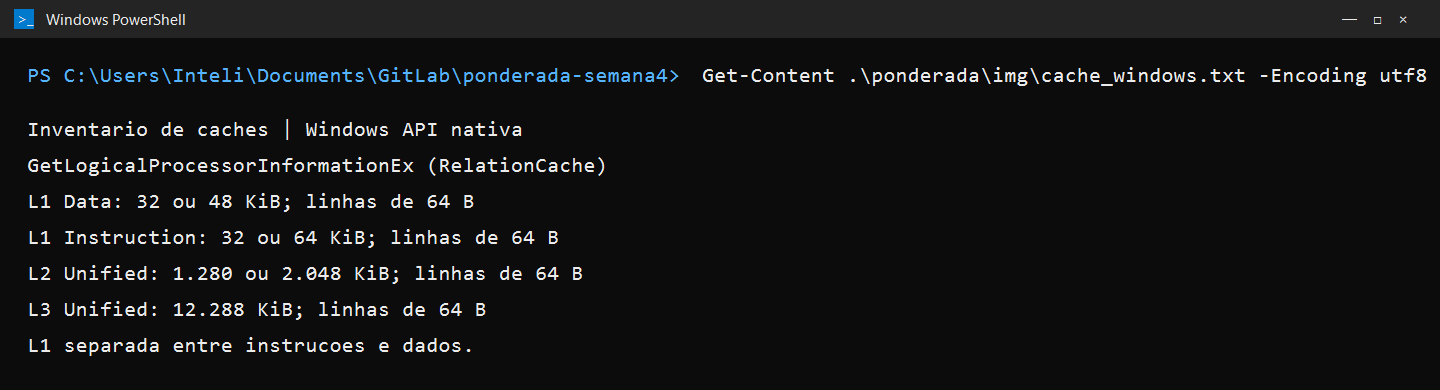
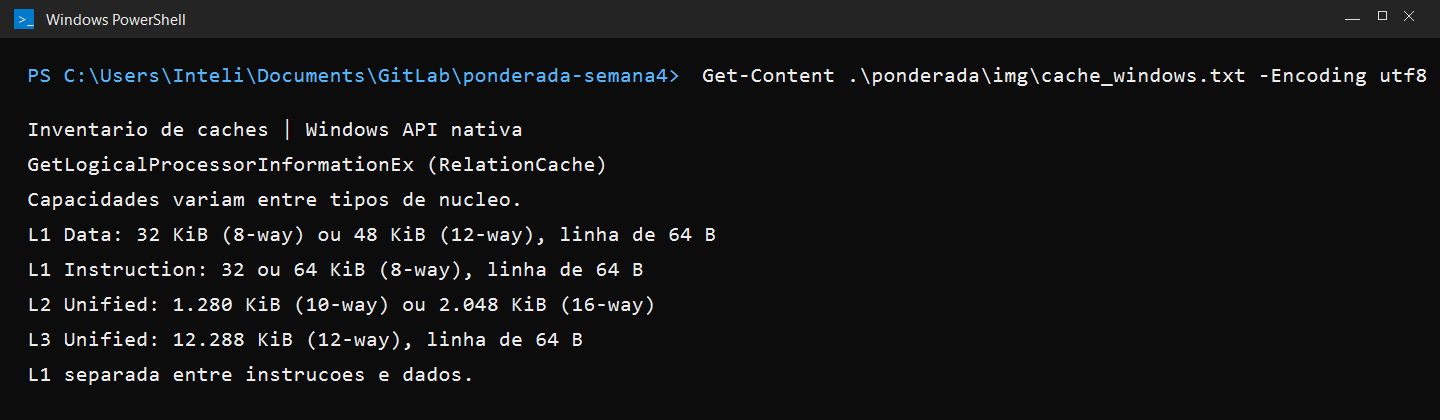
docs: Atualiza documentação e corrige formatação em arquivos README.md e ponderada-tato.md; ajusta comentários em versao1.py e versao3.py; modifica imagens de saída.

diff --git a/ponderada/codigo/versao3.py b/ponderada/codigo/versao3.py
@@ -46,7 +46,7 @@ def run_once(sample_count: int = TOTAL_SAMPLES, buffer_size: int = N) -> dict[st
         """Adquira mutex antes de espaço e bloqueie quando o buffer encher.
 
         Parâmetros: nenhum. Retorno: None.
-        Funcionamento: executa P(mutex) seguido de P(empty); com o buffer
+        Funcionamento: executa P(mutex) seguido de P(empty). Com o buffer
         cheio, fica bloqueado enquanto ainda mantém mutex.
         """
         nonlocal write_index

diff --git a/ponderada/codigo/versao1.py b/ponderada/codigo/versao1.py
@@ -71,7 +71,7 @@ def run_once(sample_count: int = TOTAL_SAMPLES, buffer_size: int = N) -> dict[st
 
         Parâmetros: nenhum. Retorno: None.
         Funcionamento: lê do buffer, altera occupied sem mutex e registra os
-        IDs recebidos; encerra ao detectar o limite de inatividade.
+        IDs recebidos. Encerra ao detectar o limite de inatividade.
         """
         nonlocal occupied, read_index
         last_received = time.monotonic()

diff --git a/ponderada/ponderada-tato.md b/ponderada/ponderada-tato.md
@@ -12,7 +12,7 @@ Contando apenas letras, Nicole tem 6 letras. O nome completo tem 6 + 6 + 5 + 5 =
 | Taxa de falta L1 (m) | 3% + 0,5% x 6 | 6% |
 | Buffer circular (N) | 3 + (2 mod 5) | 5 |
 
-## Parte A — problema técnico
+## Parte A: problema técnico
 
 ### A1. Arquitetura e memória
 
@@ -48,9 +48,9 @@ Com o DSP, a H atende ao limite com 2,725 ms de margem no modelo.
 
 Para produção, escolheria a H com DSP: a V também atende no modelo, mas a H com DSP tem mais margem e não recebe interrupções de um sistema operacional.
 
-A V precisa de cache porque sua DRAM externa custa 120 ciclos em cada falta; a cache reduz o tempo médio desse acesso. Como instruções e dados passam pela mesma memória, eles disputam o caminho de Von Neumann. A H usa SRAM interna de um ciclo e caminhos separados de instruções e dados, então não precisa de cache para cumprir esse papel.
+A V precisa de cache porque sua DRAM externa custa 120 ciclos em cada falta. A cache reduz o tempo médio desse acesso. Como instruções e dados passam pela mesma memória, eles disputam o caminho de Von Neumann. A H usa SRAM interna de um ciclo e caminhos separados para instruções e dados, então não precisa de cache para cumprir esse papel.
 
-**Caches deste computador.** O CPU-Z não está instalado aqui. Registrei o inventário de caches pela API nativa do Windows `GetLogicalProcessorInformationEx (RelationCache)`. A consulta encontrou caches L1 de instruções separados dos caches L1 de dados; as capacidades variam entre tipos de núcleo: L1 de dados de 32 ou 48 KiB, L1 de instruções de 32 ou 64 KiB, L2 unificada de 1.280 ou 2.048 KiB e L3 unificada de 12.288 KiB. Como a L1 é dividida, a CPU usa uma organização Harvard nesse nível. Como instruções e dados ainda compartilham a memória principal e o espaço de endereçamento, a classificação do computador completo é Harvard modificada.
+**Caches deste computador.** O CPU-Z não está instalado aqui. Registrei o inventário de caches pela API nativa do Windows `GetLogicalProcessorInformationEx (RelationCache)`. A consulta encontrou caches L1 separados para instruções e dados. As capacidades variam entre os tipos de núcleo. A L1 de dados tem 32 ou 48 KiB, enquanto a L1 de instruções tem 32 ou 64 KiB. A L2 unificada tem 1.280 ou 2.048 KiB e a L3 unificada tem 12.288 KiB. Como a L1 é dividida, a CPU usa uma organização Harvard nesse nível. Como instruções e dados compartilham a memória principal e o espaço de endereçamento, o computador completo segue uma organização Harvard modificada.
 
 ![Inventário das caches consultado no Windows](img/cache_windows.png)
 
@@ -65,11 +65,11 @@ As dependências RAW entre instruções do trecho são:
 | 3 `lw x7, 0(x11)` | 4 `sub x6, x6, x7` | x7 | O `sub` subtrai a amostra antiga carregada. |
 | 4 `sub x6, x6, x7` | 5 `sw x6, 0(x12)` | x6 | O `sw` grava a soma atualizada. |
 
-O `add` também lê o valor anterior de x6, que vem da iteração anterior do loop; essa dependência atravessa amostras e não é uma RAW entre duas instruções deste trecho.
+O `add` também lê o valor anterior de x6, que vem da iteração anterior do loop. Essa dependência atravessa amostras e não é uma RAW entre duas instruções deste trecho.
 
-No diagrama, `F=IF`, `D=ID`, `X=EX`, `M=MEM`, `W=WB` e `.` indica ciclo sem estágio para aquela instrução. Um estágio repetido representa uma instrução parada. O banco escreve na primeira metade do ciclo e lê na segunda metade; por isso uma instrução pode ler no ciclo em que a produtora faz WB.
+No diagrama, `F=IF`, `D=ID`, `X=EX`, `M=MEM`, `W=WB` e `.` indicam um ciclo sem estágio para aquela instrução. Um estágio repetido representa uma instrução parada. O banco escreve na primeira metade do ciclo e lê na segunda metade. Por isso, uma instrução pode ler no ciclo em que a produtora faz WB.
 
-**Sem forwarding.** As consumidoras esperam os valores chegarem a WB: cada uma das dependências 1→2, 2→4 e 4→5 acrescenta duas bolhas. São seis ciclos de bolha; o trecho termina no WB da instrução 7, no ciclo 17.
+**Sem forwarding.** As consumidoras esperam os valores chegarem a WB. Cada uma das dependências 1→2, 2→4 e 4→5 acrescenta duas bolhas. No total, são seis ciclos de bolha. O trecho termina no WB da instrução 7, no ciclo 17.
 
 ```text
 ciclo  01 02 03 04 05 06 07 08 09 10 11 12 13 14 15 16 17
@@ -105,7 +105,7 @@ I7 x11 .  .  .  .  .  .  .  .  F  D  X  M  W
 6. `sw x6, 0(x12)`
 7. `addi x11, x11, 4`
 
-A atualização de x11 pode ocorrer depois do `sw`, pois o endereço do `sw` usa x12. As cargas acontecem antes de seus ponteiros avançarem. O forwarding cobre a dependência entre `add` e `sub` e leva o resultado do `sub` ao dado do `sw`. Não há bolhas; o último WB ocorre no ciclo 11.
+A atualização de x11 pode ocorrer depois do `sw`, pois o endereço do `sw` usa x12. As cargas acontecem antes de seus ponteiros avançarem. O forwarding cobre a dependência entre `add` e `sub` e leva o resultado do `sub` ao dado do `sw`. A nova ordem não tem bolhas. O último WB ocorre no ciclo 11.
 
 ```text
 ciclo   01 02 03 04 05 06 07 08 09 10 11
@@ -120,30 +120,21 @@ I7 x11 .  .  .  .  .  .  F  D  X  M  W
 
 ### A3. Processos e threads
 
-Na Plataforma V, manteria leitura, processamento e acionamento do motor como threads do mesmo processo de tempo real. Elas compartilham as amostras sem IPC e têm custo baixo de criação e troca de contexto; também permitem que o processamento e a vibração usem os mesmos buffers. O BLE ficaria em um processo separado, com IPC para receber comandos e enviar logs. O custo de uma fronteira de processo é adequado para esse tráfego menos urgente e isola a tarefa que recebe dados externos.
+Na Plataforma V, manteria leitura, processamento e acionamento do motor como threads do mesmo processo de tempo real. Elas compartilham as amostras sem IPC e têm baixo custo de criação e troca de contexto. Assim, processamento e vibração também usam os mesmos buffers. O BLE ficaria em um processo separado, com IPC para receber comandos e enviar logs. O custo dessa fronteira é adequado para o tráfego menos urgente e isola a tarefa que recebe dados externos.
 
 Se uma falha no BLE for explorada, um processo separado limita o acesso à memória e permite encerrar ou reiniciar o módulo sem derrubar a leitura e a vibração. Como thread do processo principal, o módulo compartilharia o espaço de endereçamento e poderia corromper o estado da amostra ou parar o processo inteiro.
 
 ```text
-                 preempção / fim do quantum
-              +-------------------------------+
-              |                               v
-         +---------+     despacho       +-------------+
-         | Pronto  | -----------------> | Executando  | -----> Terminado
-         +---------+                    +-------------+
-              ^                              |
-              |         evento concluído     | espera por sensor/timer
-              +------------------------------v
-                                        +-----------+
-                                        | Bloqueado |
-                                        +-----------+
+[Novo] --admissao--> [Pronto] --despacho--> [Executando] --fim--> [Terminado]
+[Executando] --preempcao--> [Pronto]
+[Executando] --espera por sensor/timer--> [Bloqueado] --evento concluido--> [Pronto]
 ```
 
 A thread do sensor passa a maior parte do tempo bloqueada à espera da interrupção ou do timer da próxima amostra de 10 ms. Ao chegar o evento, ela passa para pronta e executa a leitura brevemente.
 
 ### A4. Código com semáforos
 
-O N utilizado é 5. Cada execução processa 20.000 IDs, de 0 a 19.999. A perda é o número de IDs esperados que não apareceram; duplicadas são ocorrências extras de IDs já vistos. “Consumidas” conta todas as leituras válidas, incluindo repetidas.
+O N utilizado é 5. Cada execução processa 20.000 IDs, de 0 a 19.999. A perda é o número de IDs esperados que não apareceram. Duplicadas são ocorrências extras de IDs já vistos. “Consumidas” conta todas as leituras válidas, incluindo as repetidas.
 
 | Versão | Execução | Consumidas | Perdidas | Duplicadas | Travou |
 |---|---:|---:|---:|---:|---|
@@ -157,7 +148,7 @@ O N utilizado é 5. Cada execução processa 20.000 IDs, de 0 a 19.999. A perda 
 | 3, mutex antes de vazio | 2 | 0 | 20.000 | 0 | Sim |
 | 3, mutex antes de vazio | 3 | 0 | 20.000 | 0 | Sim |
 
-Uma execução de cada versão:
+As imagens mostram a saída de uma execução por versão. O arquivo `execucoes_a4.txt` reúne as saídas das nove execuções.
 
 ![Saída da versão 1 sem sincronização](img/print_versao1.png)
 
@@ -165,7 +156,7 @@ Uma execução de cada versão:
 
 ![Saída da versão 3 com a ordem invertida](img/print_versao3.png)
 
-Na versão 1, a região crítica inclui a leitura e atualização de `occupied` e a operação correspondente no buffer e nos índices. Sem exclusão mútua, produtor e consumidor podem ler o mesmo valor antigo, ceder a CPU em `time.sleep(0)` e gravar atualizações incompatíveis. O contador deixa de representar o número real de posições ocupadas; o produtor pode sobrescrever dados ainda não lidos e o consumidor pode encontrar IDs repetidos. As três rodadas mostram perdas e duplicações.
+Na versão 1, a região crítica inclui a leitura e atualização de `occupied` e a operação correspondente no buffer e nos índices. Sem exclusão mútua, produtor e consumidor podem ler o mesmo valor antigo, ceder a CPU em `time.sleep(0)` e gravar atualizações incompatíveis. O contador deixa de representar o número real de posições ocupadas. Com isso, o produtor pode sobrescrever dados ainda não lidos e o consumidor pode encontrar IDs repetidos. As três rodadas mostram perdas e duplicações.
 
 Na versão 2:
 
@@ -173,15 +164,15 @@ Na versão 2:
 - `cheio` começa em 0 e impede o consumidor de ler quando não há amostra.
 - `mutex` começa em 1 e protege o buffer e os índices durante cada leitura ou escrita.
 
-As três rodadas consumiram os 20.000 IDs exatamente uma vez. Na versão 3, o produtor adquire `mutex` enquanto o buffer está cheio e depois espera por `vazio`. O consumidor já pode retirar um token de `cheio`, mas fica esperando o mesmo `mutex`; sem o consumidor liberar uma posição, o produtor também não prossegue. As três execuções ficaram travadas antes da primeira leitura.
+As três rodadas consumiram os 20.000 IDs exatamente uma vez. Na versão 3, o produtor adquire `mutex` enquanto o buffer está cheio e depois espera por `vazio`. O consumidor já pode retirar um token de `cheio`, mas fica esperando pelo mesmo `mutex`. Como não consegue liberar uma posição, o produtor também não prossegue. As três execuções ficaram travadas antes da primeira leitura.
 
 ### A5. Deadlock
 
 Uma sequência possível é:
 
-1. `thread_sensor` executa P(i2c), lê o sensor e mantém i2c; depois pede log.
-2. `thread_log` executa P(log), lê o arquivo e mantém log; depois pede ble.
-3. `thread_config` executa P(ble), recebe o comando e mantém ble; depois pede i2c.
+1. `thread_sensor` executa P(i2c), lê o sensor e mantém i2c. Depois, pede log.
+2. `thread_log` executa P(log), lê o arquivo e mantém log. Depois, pede ble.
+3. `thread_config` executa P(ble), recebe o comando e mantém ble. Depois, pede i2c.
 4. As três ficam bloqueadas, cada uma esperando um recurso retido pela próxima.
 
 Grafo de alocação naquele instante:
@@ -194,17 +185,17 @@ As quatro condições necessárias aparecem assim:
 
 1. **Exclusão mútua:** cada semáforo protege um recurso exclusivo: i2c, log ou ble.
 2. **Posse e espera:** cada thread segura o primeiro recurso enquanto pede o segundo.
-3. **Não preempção:** o recurso só é liberado quando a thread executa V; outra thread não o toma à força.
+3. **Não preempção:** o recurso só é liberado quando a thread executa V. Outra thread não o toma à força.
 4. **Espera circular:** sensor espera log, log espera ble e config espera i2c, fechando o ciclo.
 
-**Correção preventiva — ordem global.** Definir a ordem i2c < log < ble e exigir que todas as threads adquiram recursos nessa ordem. `thread_config` passaria a pedir i2c antes de ble. Como nenhum fluxo pode voltar a um recurso anterior da ordem, o ciclo deixa de existir. Para a pessoa, a leitura e a vibração continuam; um comando BLE pode aguardar a aquisição do i2c por alguns milissegundos.
+**Correção preventiva: ordem global.** Definir uma ordem de aquisição, i2c < log < ble, e exigir que todas as threads a sigam. `thread_config` passaria a pedir i2c antes de ble. Como nenhum fluxo pode voltar a um recurso anterior da ordem, o ciclo deixa de existir. A leitura e a vibração continuam. Um comando BLE pode aguardar alguns milissegundos pela aquisição do i2c.
 
-**Detecção e recuperação — prazo com rollback.** Fazer cada aquisição bloqueante ter um prazo, por exemplo 100 ms. Ao expirar, a thread abandona a operação, libera na ordem inversa todos os recursos que ela própria adquiriu e tenta de novo com atraso curto; o evento fica registrado para diagnóstico. Assim, uma combinação que formaria deadlock não congela a pulseira indefinidamente. O usuário pode perceber atraso ou repetição de um comando de configuração, enquanto a leitura prioritária e a vibração permanecem disponíveis.
+**Detecção e recuperação: grafo de espera e cancelamento cooperativo.** Um supervisor registra os recursos que cada thread possui e solicita. Ao encontrar um ciclo no grafo de espera, ele cancela a transação BLE, que tem menor prioridade. As esperas por semáforo usam períodos de até 100 ms para verificar o cancelamento. A thread de configuração desfaz a operação e libera os recursos que possui em um bloco finally, na ordem inversa. Isso libera BLE e permite que o log e o sensor terminem. A pessoa pode ter de repetir um comando de configuração. A leitura e a vibração continuam, sem exigir o reinício da pulseira.
 
-## Parte B — decisão do CTO
+## Parte B: decisão do CTO
 
 **Decido produzir a pulseira com a Plataforma H e o DSP.** O custo de hardware será R$ 37 por unidade, R$ 33 abaixo da Plataforma V, e o cálculo da A1 reduz o tempo estimado de 4,375 ms para 2,275 ms por amostra, deixando 2,725 ms de margem até o limite de 5 ms.
 
 Abro mão de atualizações OTA: a equipe de assistência e quem precisar de uma correção terão de levar a pulseira para atualizar por cabo. Em troca, a execução não depende de um escalonador Linux no caminho crítico e o produto evita a superfície de ataque adicional de um sistema operacional completo. BLE e comandos externos ainda exigirão validação e firmware assinado.
 
-Para a pessoa que usa a pulseira, a decisão favorece vibração previsível e menor custo, mas pode prolongar a exposição a uma falha corrigível por software até a visita à assistência. Eu mudaria a decisão se um ensaio de 200.000 amostras, sob os extremos especificados de temperatura e tensão, registrasse qualquer amostra acima de 5 ms; nesse caso, suspenderia a produção H e qualificaria a Plataforma V com escalonamento de tempo real medido.
+Para a pessoa que usa a pulseira, a decisão favorece vibração previsível e menor custo, mas pode prolongar a exposição a uma falha corrigível por software até a visita à assistência. Eu mudaria a decisão se um ensaio de 200.000 amostras a 100 Hz, com BLE enviando logs e recebendo comandos, registrasse qualquer amostra acima de 5 ms. Nesse caso, suspenderia a produção H e qualificaria a Plataforma V com escalonamento de tempo real medido.

diff --git a/README.md b/README.md
@@ -1,6 +1,6 @@
 # Ponderada CC08
 
-Nicole Riedla Paiva Neves — análise de arquitetura, pipeline, concorrência e deadlock aplicada à pulseira Tato.
+Nicole Riedla Paiva Neves: análise de arquitetura, pipeline, concorrência e deadlock aplicada à pulseira Tato.
 
 As três versões da questão A4 usam N=5 e produzem 20.000 amostras por execução. Execute cada comando três vezes, a partir da raiz do repositório:
 
@@ -10,4 +10,4 @@ python3 .\ponderada\codigo\versao2.py
 python3 .\ponderada\codigo\versao3.py
 ```
 
-Python 3 é necessário. A versão 1 demonstra a condição de corrida; a versão 2 usa os três semáforos na ordem segura; a versão 3 troca a ordem no produtor para reproduzir o deadlock.
+Python 3 é necessário. A versão 1 demonstra a condição de corrida. A versão 2 usa os três semáforos na ordem segura. A versão 3 troca a ordem no produtor para reproduzir o deadlock.
